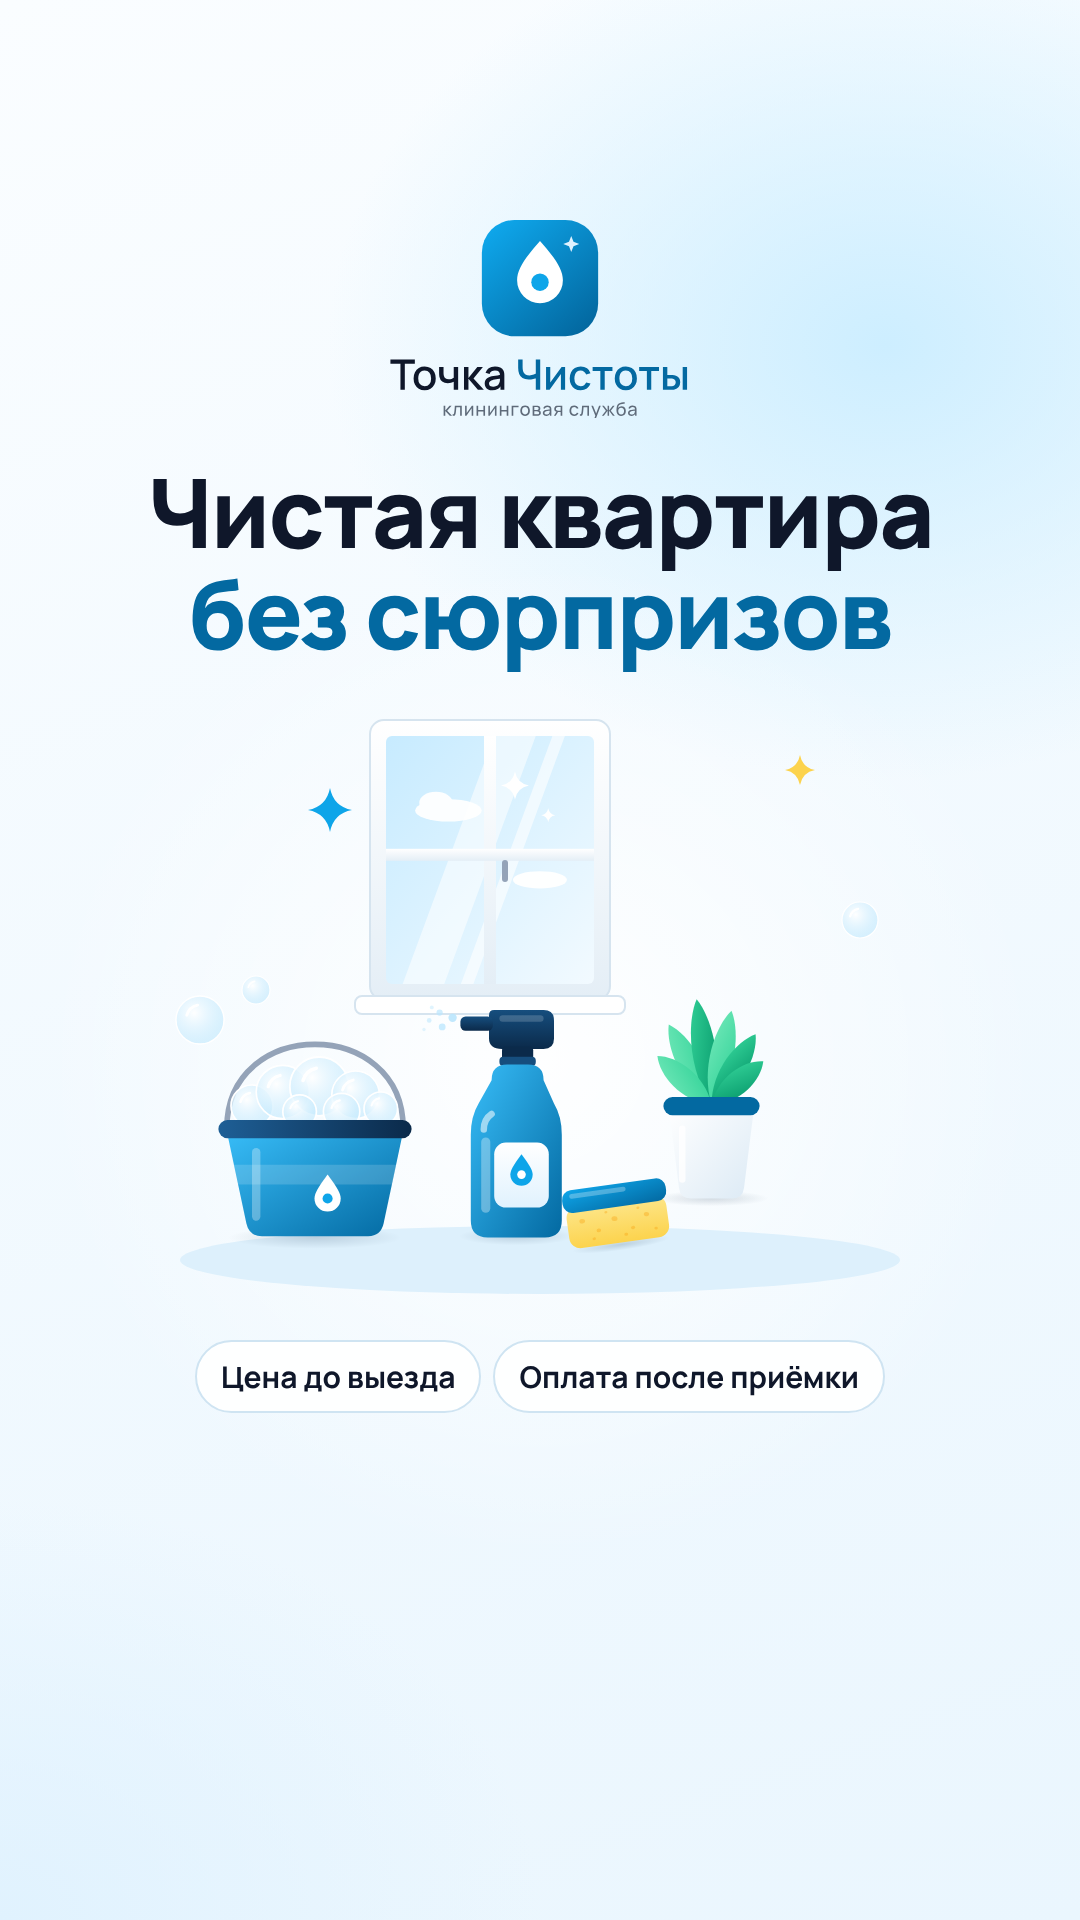
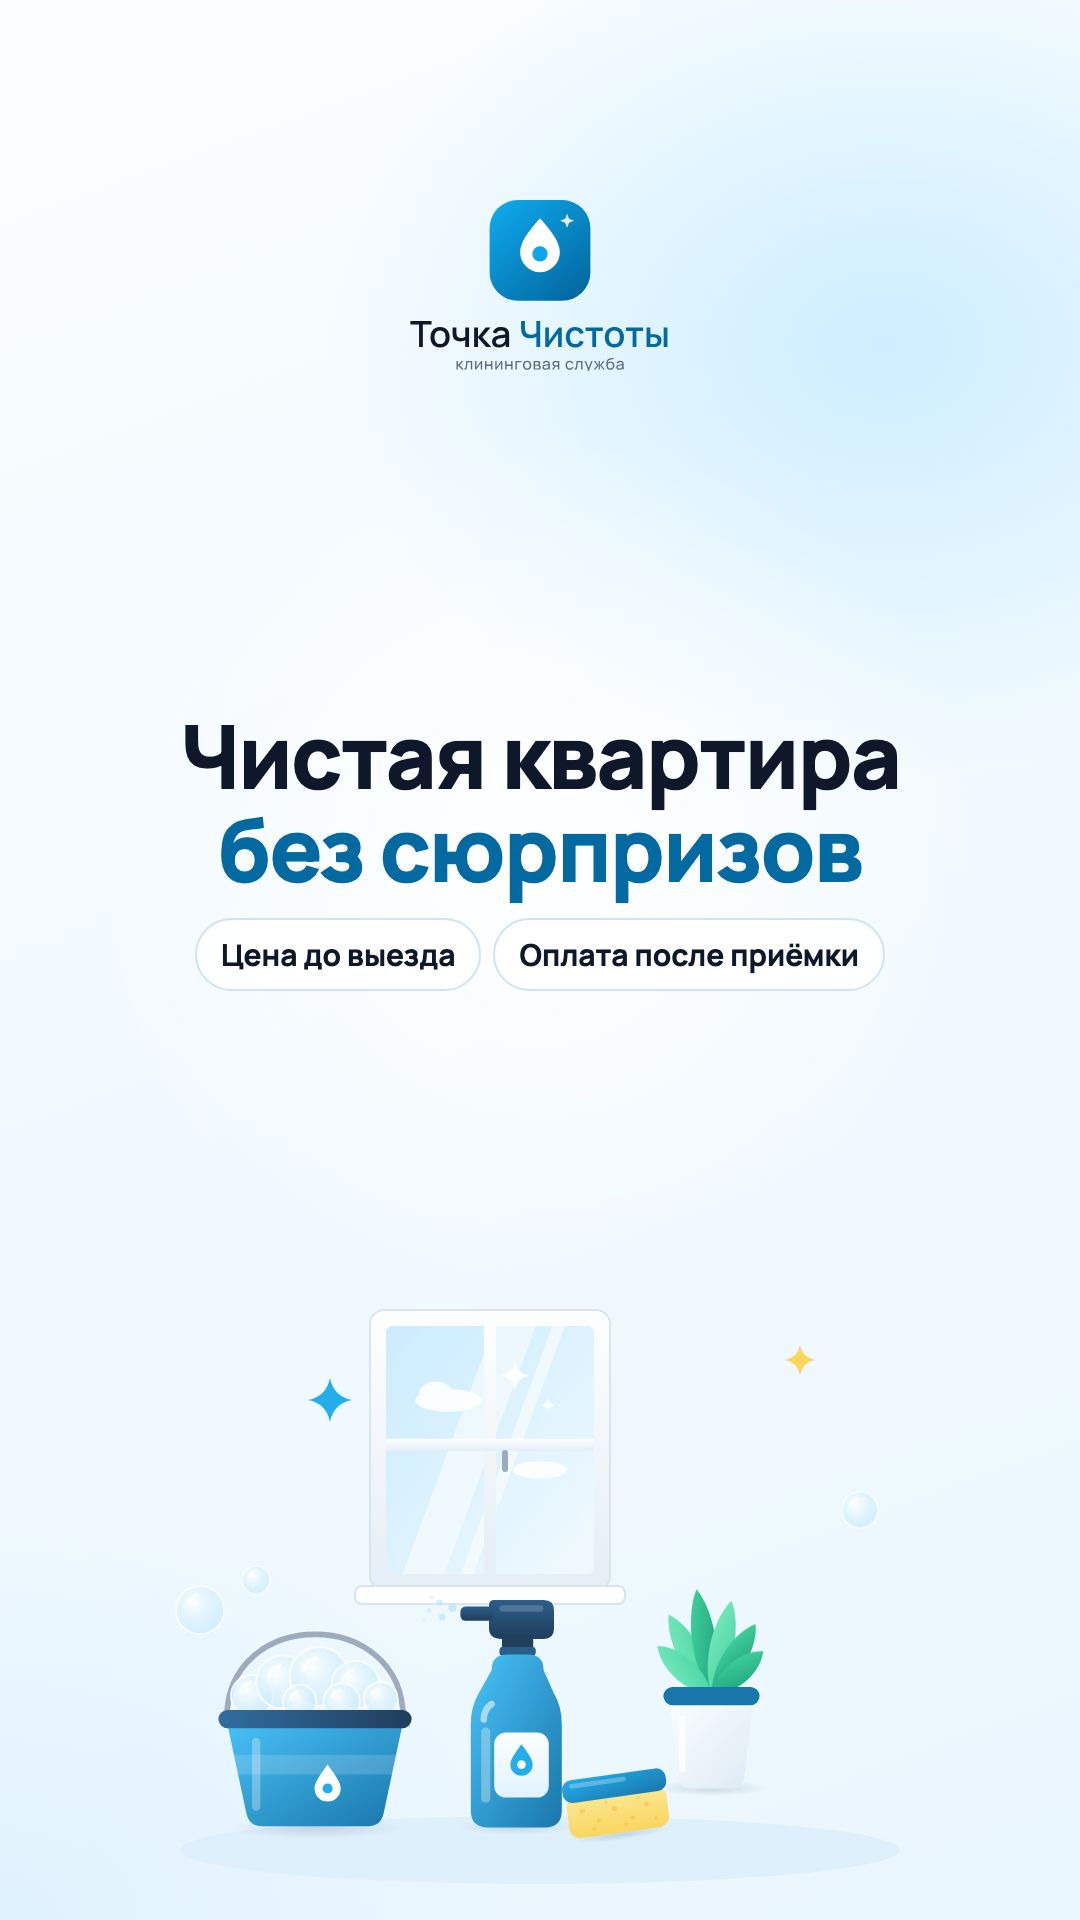
Keep live cover text inside the VK app safe zone
The VK app scales each 1080×1920 frame to the screen height and, on the
collapsed community page, shows only the band y 430–1510: the status bar
and buttons cover its top, the avatar, name and buttons cover its bottom.
Headlines sat under the status bar and chips under the community name.

Text now lives in y 660–1040; the logo and illustrations sit above y 430
and below y 1520, where they show only in the opened cover. The mobile
preview mirrors the real crop, and the README states the zones.

diff --git a/marketing/tools/build_vk.py b/marketing/tools/build_vk.py
@@ -100,69 +100,78 @@ asset("cover-desktop_1920x768", 1920, 768, "fresh", f"""
   <div style="display:flex;gap:14px">{chips(TRUST[1:])}</div>
 </div>""")
 
-# 2. Живая обложка для приложения: 5 кадров 1080×1920. Заголовок — в верхней половине (y 220–700): на странице
-#    сообщества низ кадра закрывают аватар, название и кнопки; целиком кадр виден, когда обложку открывают.
+# 2. Живая обложка для приложения: 5 кадров 1080×1920. Приложение растягивает кадр на высоту экрана, и на свёрнутой
+#    странице сообщества видна только полоса x 110–970, y 430–1510: сверху её закрывают статус-бар и кнопки (до y 650),
+#    снизу — аватар, название и кнопки (от y 1070). Поэтому главный текст — только в полосе LIVE_SAFE (y 660–1040).
+#    Выше y 430 и ниже y 1520 — то, что видно, лишь когда обложку открывают на весь экран: логотип и иллюстрации.
+LIVE_SAFE = "position:absolute;left:160px;right:160px;top:660px;height:380px;display:flex;flex-direction:column;" \
+            "justify-content:center;align-items:center;gap:24px;text-align:center"
+LIVE_TOP = "position:absolute;left:0;right:0;top:200px;display:flex;justify-content:center"
+LIVE_BOTTOM = "position:absolute;left:0;right:0;top:1530px;display:flex;justify-content:center;align-items:flex-end;gap:40px"
 LIVE_SCENE = ('<ellipse cx="380" cy="560" rx="360" ry="34" fill="#DDF0FC"/>'
               + I.window(210, 20, 240, 280) + I.plant(480, 280, 1.3) + I.bucket(50, 350, 1.4) + I.spray(290, 310, 1.3)
               + I.sponge(400, 486, .95) + I.bubble(40, 320, 24) + I.bubble(96, 290, 14) + I.bubble(700, 220, 18)
               + I.sparkle(170, 110, 22, I.SKY) + I.sparkle(640, 70, 15, I.SUN))
 asset("live-cover-1_1080x1920", 1080, 1920, "fresh", f"""
-<div class="glow" style="left:40px;top:560px;width:1000px;height:1000px"></div>
-<div style="position:absolute;left:60px;right:60px;top:220px;display:flex;flex-direction:column;align-items:center;gap:44px;text-align:center">
-  {logo("color", kind="stacked", width=300, descriptor="клининговая служба", gid="l1")}
-  <h1 style="font-size:96px">Чистая квартира<br><em>без сюрпризов</em></h1>
+<div class="glow" style="left:90px;top:420px;width:900px;height:900px"></div>
+<div style="{LIVE_TOP}">{logo("color", kind="stacked", width=260, descriptor="клининговая служба", gid="l1")}</div>
+<div style="{LIVE_SAFE}">
+  <h1 style="font-size:88px">Чистая квартира<br><em>без сюрпризов</em></h1>
+  <div style="display:flex;gap:12px;flex-wrap:wrap;justify-content:center">{chips(TRUST[:2], 30, "14px 24px")}</div>
 </div>
-{art(760, 620, LIVE_SCENE, 160, 700)}
-<div style="position:absolute;left:60px;right:60px;top:1340px;display:flex;gap:12px;flex-wrap:wrap;justify-content:center">{chips(TRUST[:2], 30, "14px 24px")}</div>
+{art(760, 620, LIVE_SCENE, 160, 1290, "opacity:.9")}
 """)
 
-PRICE_ROWS = [(I.sponge(14, 40, 1.1), "Поддерживающая", "от 2 400 ₽", "2-комн. — 3 900 ₽"),
-              (I.spray(34, 6, .78), "Генеральная", "от 4 900 ₽", "2-комн. — 10 600 ₽"),
-              (I.roller(20, 14, .78), "После ремонта", "от 6 200 ₽", "2-комн. — 13 700 ₽")]
-rows = "".join(f"""<div class="card">{I.svg(150, 150, ill, "flex:none")}
-  <div style="flex:1"><div style="font-size:44px;font-weight:800">{t}</div><div style="font-size:30px;font-weight:500;opacity:.75;margin-top:6px">{n}</div></div>
-  <div style="font-size:46px;font-weight:800;color:#38BDF8;white-space:nowrap">{p}</div></div>""" for ill, t, p, n in PRICE_ROWS)
+PRICE_ROWS = [("Поддерживающая", "от 2 400 ₽"), ("Генеральная", "от 4 900 ₽"), ("После ремонта", "от 6 200 ₽")]
+rows = "".join(f'<div class="row"><span>{t}</span><b>{p}</b></div>' for t, p in PRICE_ROWS)
 asset("live-cover-2_1080x1920", 1080, 1920, "navy", f"""
-<div style="position:absolute;left:80px;right:80px;top:270px;display:flex;flex-direction:column;gap:34px">
-  {logo(width=360, gid="l2")}
-  <div class="kicker" style="font-size:30px;margin-top:30px">Тюмень · цены 2026</div>
-  <h1 style="font-size:96px">Цена известна<br><em>до выезда</em></h1>
-  <div style="display:flex;flex-direction:column;gap:22px;margin-top:10px">{rows}</div>
-  <div style="font-size:30px;font-weight:500;opacity:.8">Мытьё окон — 350 ₽ за створку · химчистка мебели — 1 500 ₽ за предмет</div>
-</div>""", ".card{display:flex;align-items:center;gap:28px;padding:22px 34px 22px 18px;border-radius:36px;background:rgba(255,255,255,.07);border:2px solid rgba(255,255,255,.14)}")
+<div style="{LIVE_TOP}">{logo(width=340, gid="l2")}</div>
+<div style="{LIVE_SAFE};gap:22px">
+  <h1 style="font-size:72px">Цена известна<br><em>до выезда</em></h1>
+  <div style="display:flex;flex-direction:column;gap:8px;width:680px">{rows}</div>
+</div>
+<div style="{LIVE_BOTTOM};flex-direction:column;align-items:center;gap:18px;text-align:center">
+  <div style="font-size:30px;font-weight:500;opacity:.85">2-комн.: поддерживающая — 3 900 ₽, генеральная — 10 600 ₽,<br>после ремонта — 13 700 ₽</div>
+  <div style="font-size:30px;font-weight:500;opacity:.85">Окна — 350 ₽ за створку · химчистка — 1 500 ₽ за предмет</div>
+</div>""", ".row{display:flex;justify-content:space-between;align-items:baseline;font-size:34px;font-weight:700;"
+           "padding:9px 26px;border-radius:24px;background:rgba(255,255,255,.08)}.row b{color:#38BDF8;font-weight:800}")
 
-STEPS = [(I.stopwatch(12, 2, .95), "Напишите нам", "Ответим за 7 минут с точной ценой"),
-         (I.bucket(2, 26, .95), "Приедем вовремя", "В 2-часовое окно, со своими средствами"),
-         (I.phone_report(30, 4, .76), "Примите работу", "По фото и чек-листу — оплата после")]
-steps = "".join(f"""<div class="step">{I.svg(150, 160, ill, "flex:none")}<div><div class="num">{i + 1}</div>
-  <div style="font-size:48px;font-weight:800">{t}</div><div style="font-size:32px;font-weight:500;color:#334155;margin-top:8px">{d}</div></div></div>"""
-                for i, (ill, t, d) in enumerate(STEPS))
+STEPS = [("Напишите", "цена за 7 минут"), ("Приедем", "в 2-часовое окно"), ("Примите работу", "оплата после")]
+steps = "".join(f'<div class="step"><span class="num">{i + 1}</span><span><b>{t}</b> — {d}</span></div>'
+                for i, (t, d) in enumerate(STEPS))
 asset("live-cover-3_1080x1920", 1080, 1920, "fresh", f"""
-<div style="position:absolute;left:80px;right:80px;top:270px;display:flex;flex-direction:column;gap:34px">
-  {logo("color", width=360, gid="l3")}
-  <div class="kicker" style="font-size:30px;margin-top:30px;color:#0369A1">Как мы работаем</div>
-  <h1 style="font-size:96px">Три шага<br>до <em>чистоты</em></h1>
-  <div style="display:flex;flex-direction:column;gap:26px;margin-top:10px">{steps}</div>
-</div>""", ".step{display:flex;align-items:center;gap:30px;padding:24px 30px;border-radius:36px;background:#fff;border:2px solid #DCEBF6;box-shadow:0 18px 40px rgba(3,105,161,.08)}"
-           ".num{display:inline-block;font-size:24px;font-weight:800;color:#fff;background:#0EA5E9;border-radius:999px;padding:4px 16px;margin-bottom:10px}")
+<div class="glow" style="left:90px;top:420px;width:900px;height:900px"></div>
+<div style="{LIVE_TOP}">{logo("color", width=340, gid="l3")}</div>
+<div style="{LIVE_SAFE};gap:22px">
+  <h1 style="font-size:72px">Три шага до <em>чистоты</em></h1>
+  <div style="display:flex;flex-direction:column;gap:10px;width:720px">{steps}</div>
+</div>
+<div style="{LIVE_BOTTOM}">{I.svg(170, 180, I.stopwatch(12, 2, 1.05), "flex:none")}{I.svg(170, 180, I.bucket(2, 30, 1.05), "flex:none")}{I.svg(170, 180, I.phone_report(34, 4, .84), "flex:none")}</div>
+""", ".step{display:flex;align-items:center;gap:20px;font-size:34px;font-weight:500;color:#334155;text-align:left;"
+     "padding:10px 22px;border-radius:24px;background:#fff;border:2px solid #DCEBF6}.step b{color:#0F172A;font-weight:800}"
+     ".num{flex:none;width:46px;height:46px;border-radius:50%;background:#0EA5E9;color:#fff;font-weight:800;font-size:28px;"
+     "display:flex;align-items:center;justify-content:center}")
 
 asset("live-cover-4_1080x1920", 1080, 1920, "sky", f"""
-<div class="glow" style="left:90px;top:360px;width:900px;height:900px;opacity:.35"></div>
-<div style="position:absolute;left:80px;right:80px;top:270px;display:flex;flex-direction:column;gap:34px;align-items:center;text-align:center">
-  {logo("1c-white", width=360, gid="l4")}
-  {I.svg(420, 470, I.shield(40, 20, 2.6) + I.sparkle(30, 380, 16) + I.sparkle(400, 300, 10), "margin-top:30px")}
-  <h1 style="font-size:88px">Не понравилось —<br><span style="color:#0B2A4A">переуберём бесплатно</span></h1>
-  <div style="font-size:38px;font-weight:700">в течение 24 часов после уборки</div>
-  <div style="display:flex;gap:12px;flex-wrap:wrap;justify-content:center">{chips(["Фотоотчёт до и после", "Работаем по чек-листу"], 30, "14px 24px")}</div>
-</div>""")
+<div class="glow" style="left:90px;top:420px;width:900px;height:900px;opacity:.35"></div>
+<div style="{LIVE_TOP}">{logo("1c-white", width=340, gid="l4")}</div>
+<div style="{LIVE_SAFE}">
+  <h1 style="font-size:76px">Не понравилось —<br><span style="color:#0B2A4A">переуберём бесплатно</span></h1>
+  <div style="font-size:36px;font-weight:700">в течение 24 часов после уборки</div>
+  <div style="display:flex;gap:12px;flex-wrap:wrap;justify-content:center">{chips(["Фотоотчёт до и после", "Работаем по чек-листу"], 28, "12px 22px")}</div>
+</div>
+<div style="{LIVE_BOTTOM}">{I.svg(260, 290, I.shield(25, 12, 1.6) + I.sparkle(20, 240, 12) + I.sparkle(240, 180, 8), "flex:none")}</div>
+""")
 
 asset("live-cover-5_1080x1920", 1080, 1920, "navy", f"""
-<div style="position:absolute;left:80px;right:80px;top:270px;display:flex;flex-direction:column;gap:34px;align-items:center;text-align:center">
-  {logo(width=360, gid="l5")}
-  {I.svg(380, 420, I.stopwatch(20, 10, 2.45) + I.sparkle(350, 60, 16, I.SUN) + I.sparkle(20, 330, 10, I.PALE), "margin-top:40px")}
-  <h1 style="font-size:100px">Расчёт<br><em>за 7 минут</em></h1>
-  <div style="font-size:38px;font-weight:500;line-height:1.35;opacity:.9">Нажмите «Написать» и пришлите<br>площадь и тип уборки</div>
-  <span class="pill" style="font-size:40px;padding:22px 44px">tyumen.cleanliness.pro</span>
+<div style="{LIVE_TOP}">{logo(width=340, gid="l5")}</div>
+<div style="{LIVE_SAFE}">
+  <h1 style="font-size:92px">Расчёт<br><em>за 7 минут</em></h1>
+  <div style="font-size:36px;font-weight:500;line-height:1.35;opacity:.9">Нажмите «Сообщения» и пришлите<br>площадь и тип уборки</div>
+</div>
+<div style="{LIVE_BOTTOM};flex-direction:column;align-items:center;gap:30px">
+  {I.svg(230, 250, I.stopwatch(12, 6, 1.5) + I.sparkle(210, 40, 12, I.SUN), "flex:none")}
+  <span class="pill" style="font-size:34px;padding:18px 38px">tyumen.cleanliness.pro</span>
 </div>""")
 
 # 3. Меню сообщества: 6 пунктов 752×512 (вдвое больше минимальных 376×256 — чётко на любых экранах)
@@ -311,7 +320,7 @@ asset("preview-desktop", 1600, 1200, "ui", f"""
 asset("preview-mobile", 1000, 1900, "ui", f"""
 <div style="position:absolute;left:110px;top:40px;width:780px;height:1820px;border-radius:64px;background:#fff;overflow:hidden;
   box-shadow:0 30px 80px rgba(15,23,42,.18);border:14px solid #0F172A">
-  <div style="height:860px;overflow:hidden;position:relative">{img("live-cover-1_1080x1920", "width:752px;margin-top:-60px")}
+  <div style="height:940px;overflow:hidden;position:relative">{img("live-cover-1_1080x1920", "width:939px;margin:-375px 0 0 -95px")}
     <div style="position:absolute;left:0;right:0;bottom:0;height:240px;background:linear-gradient(rgba(255,255,255,0),#fff)"></div></div>
   <div style="padding:0 36px;position:relative;margin-top:-90px">
     <img src="file://{AVATAR}" style="width:150px;height:150px;border-radius:50%;border:6px solid #fff">

diff --git a/marketing/vk/README.md b/marketing/vk/README.md
@@ -71,7 +71,7 @@ VK для «Точки Чистоты» — это три вещи: **довер
 | Файл | Размер | Куда |
 |---|---|---|
 | `cover-desktop_1920x768.png` | 1920×768 | Обложка сообщества. Текст — в центральной зоне: края и полосы сверху и снизу на части экранов обрезаются, внизу слева — аватар |
-| `live-cover-1…5_1080x1920.png` | 1080×1920 | Живая обложка в приложении: 1 — знакомство, 2 — цены, 3 — как мы работаем, 4 — гарантия, 5 — расчёт за 7 минут. Заголовки — в верхней половине: низ кадра на странице сообщества закрыт аватаром и кнопками |
+| `live-cover-1…5_1080x1920.png` | 1080×1920 | Живая обложка в приложении: 1 — знакомство, 2 — цены, 3 — как мы работаем, 4 — гарантия, 5 — расчёт за 7 минут. Приложение растягивает кадр на высоту экрана; на странице сообщества видна полоса y 430–1510, сверху её закрывают статус-бар и кнопки, снизу — аватар, название и кнопки. Весь текст — в полосе y 660–1040, логотип и иллюстрации — выше y 430 и ниже y 1520 (видны, когда обложку открывают) |
 | `menu-1…6_752x512.png` | 752×512 | Обложки пунктов меню (вдвое больше минимальных 376×256 — чётко на любых экранах) |
 | `service-*_1000x1000.png` | 1000×1000 | Обложки карточек в разделе «Услуги» (или «Товары») |
 | `pinned-post_1080x1350.png` | 1080×1350 | Картинка закреплённого поста «Добро пожаловать» |
